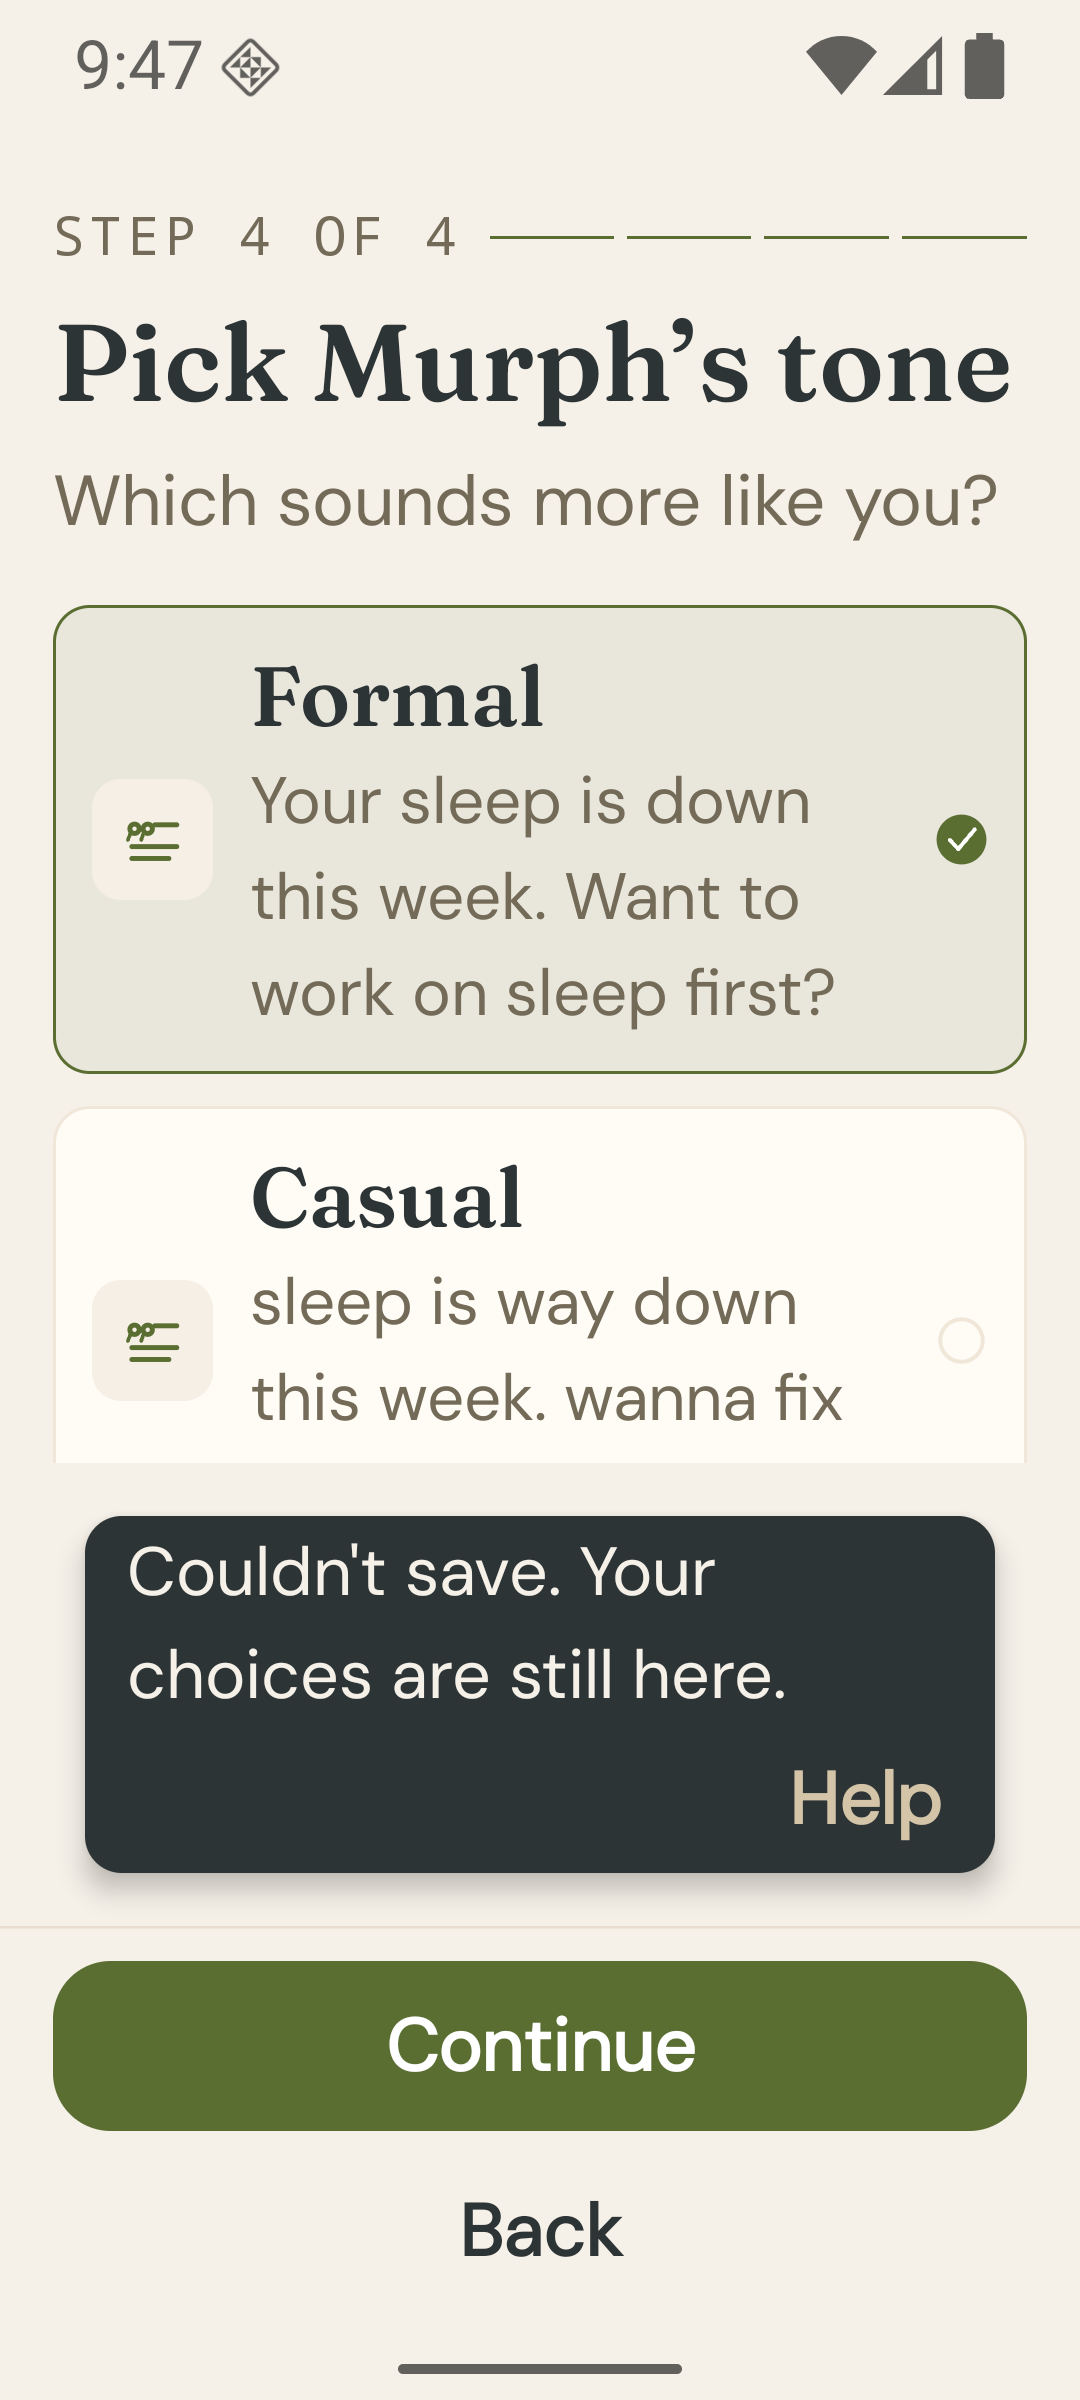
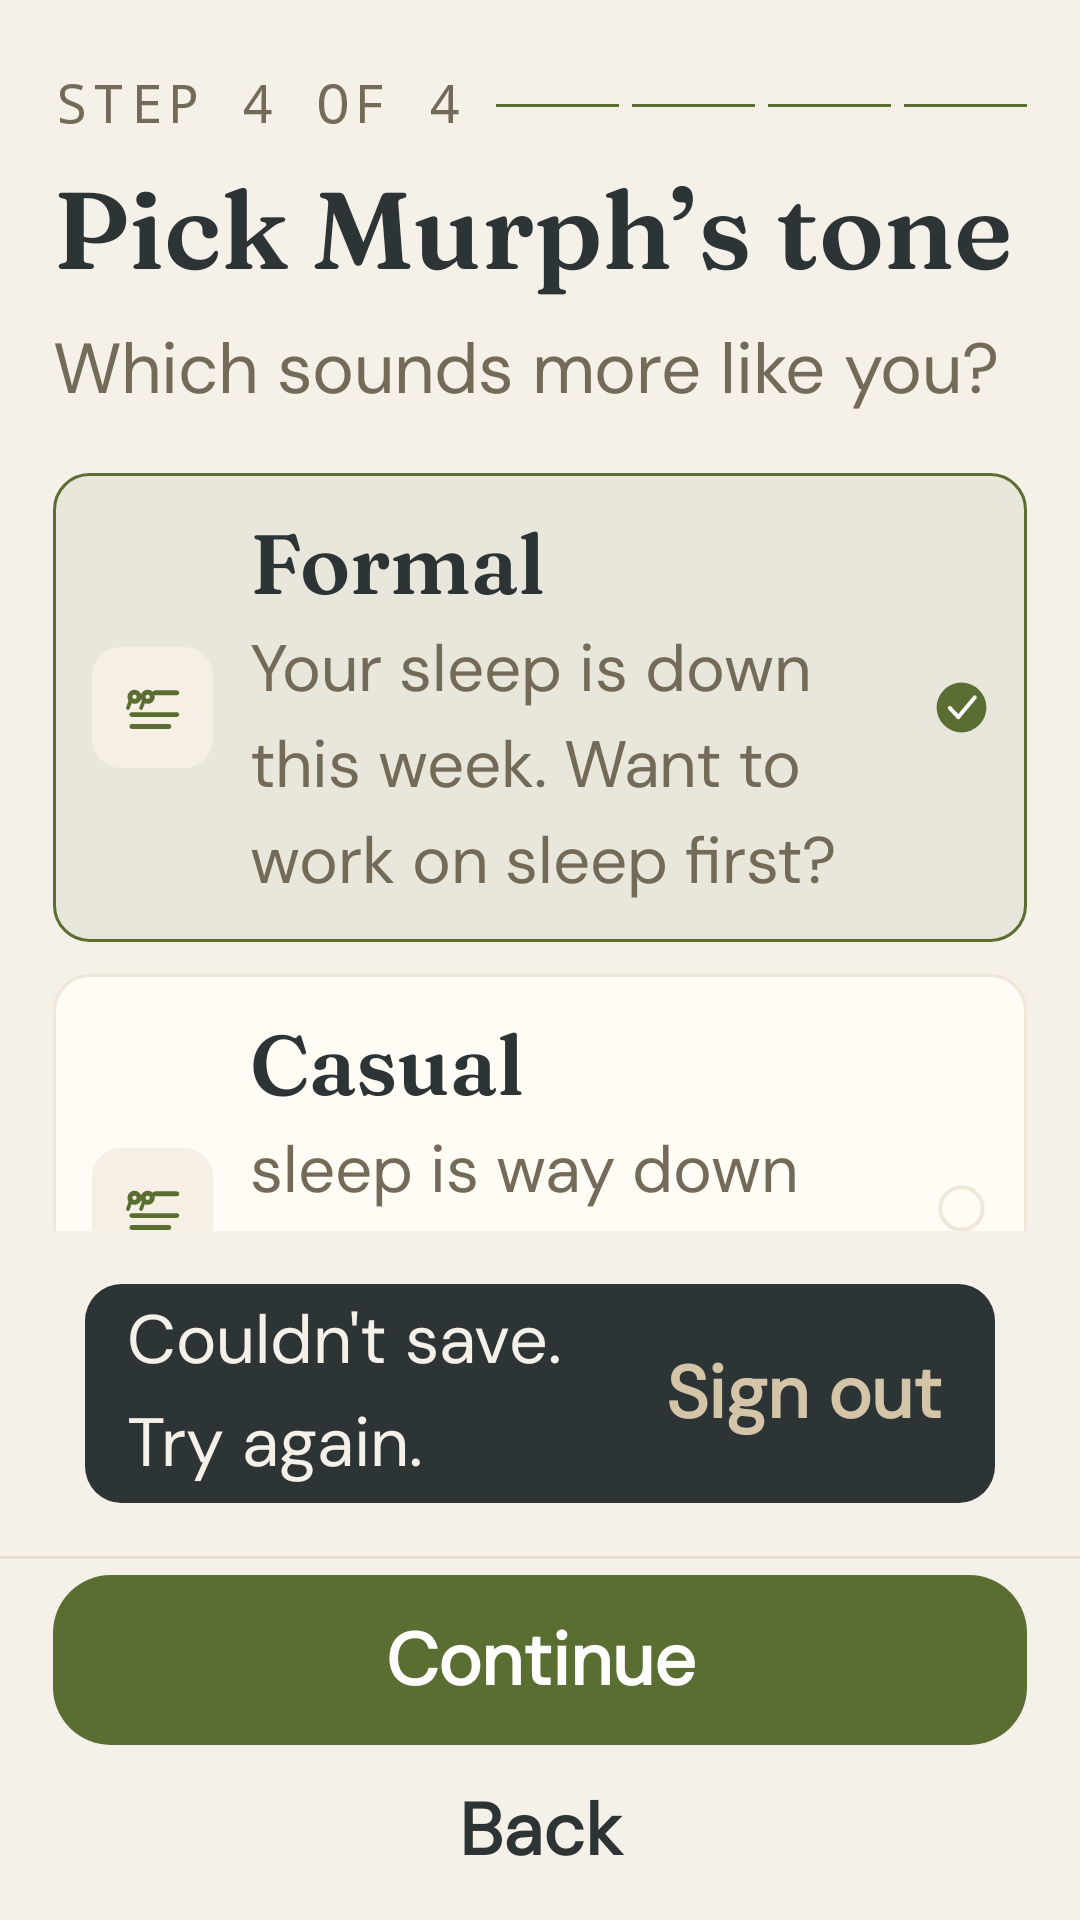
Keep onboarding recovery compact

diff --git a/app/src/main/java/ai/withmurph/companion/ui/onboarding/InitialOnboardingScreen.kt b/app/src/main/java/ai/withmurph/companion/ui/onboarding/InitialOnboardingScreen.kt
@@ -186,7 +186,6 @@ fun InitialOnboardingScreen(
     val stageScrollState = key(stage) { rememberScrollState() }
     val stageHeadingFocus = remember(stage) { FocusRequester() }
     val snackbarHostState = remember { SnackbarHostState() }
-    val stackSnackbarAction = LocalDensity.current.fontScale >= 1.3f
     LaunchedEffect(stage) {
         stageHeadingFocus.requestFocus()
         stageScrollState.scrollTo(0)
@@ -196,11 +195,11 @@ fun InitialOnboardingScreen(
         state.initialOnboardingMessage?.let { message ->
             val result = snackbarHostState.showSnackbar(
                 message = message,
-                actionLabel = "Help",
-                duration = SnackbarDuration.Long,
+                actionLabel = "Sign out",
+                duration = SnackbarDuration.Indefinite,
             )
             if (result == SnackbarResult.ActionPerformed) {
-                actions.onOpenSupport()
+                actions.onSignOut()
             }
         }
     }
@@ -277,7 +276,6 @@ fun InitialOnboardingScreen(
             Snackbar(
                 snackbarData = snackbarData,
                 modifier = Modifier.padding(horizontal = 20.dp, vertical = 8.dp),
-                actionOnNewLine = stackSnackbarAction,
                 shape = RoundedCornerShape(14.dp),
                 containerColor = MurphColors.Slate,
                 contentColor = MurphColors.Cream,
@@ -297,7 +295,7 @@ fun InitialOnboardingScreen(
                 modifier = Modifier
                     .widthIn(max = 680.dp)
                     .fillMaxWidth()
-                    .padding(horizontal = 20.dp, vertical = 12.dp),
+                    .padding(horizontal = 20.dp, vertical = 6.dp),
                 horizontalAlignment = Alignment.CenterHorizontally,
                 verticalArrangement = Arrangement.spacedBy(10.dp),
             ) {
@@ -917,7 +915,7 @@ private fun OnboardingFooter(
     }
     Column(
         modifier = Modifier.fillMaxWidth(),
-        verticalArrangement = Arrangement.spacedBy(10.dp),
+        verticalArrangement = Arrangement.spacedBy(4.dp),
         horizontalAlignment = Alignment.CenterHorizontally,
     ) {
         MurphPrimaryButton(

diff --git a/app/src/androidTest/java/ai/withmurph/companion/visual/ScreenshotScenarioSmokeTest.kt b/app/src/androidTest/java/ai/withmurph/companion/visual/ScreenshotScenarioSmokeTest.kt
@@ -46,8 +46,8 @@ class ScreenshotScenarioSmokeTest {
 
     @Test
     fun onboardingErrorFixtureKeepsRecoveryOutOfTheForm() = withScenario("onboardingError") {
-        onNodeWithText("Couldn't save. Your choices are still here.").assertIsDisplayed()
-        onNodeWithText("Help").assertIsDisplayed().assertHasClickAction()
+        onNodeWithText("Couldn't save. Try again.").assertIsDisplayed()
+        onNodeWithText("Sign out").assertIsDisplayed().assertHasClickAction()
         onNodeWithText("Formal").assertIsDisplayed().assertHasClickAction()
         onNodeWithText("Continue").assertIsDisplayed().assertHasClickAction()
         onNodeWithText("Back").assertIsDisplayed().assertHasClickAction()
@@ -62,7 +62,7 @@ class ScreenshotScenarioSmokeTest {
         withScenario("onboardingContactError") {
             onNodeWithText("We couldn't open the contact card. Check your connection and try again.")
                 .assertIsDisplayed()
-            onNodeWithText("Help").assertIsDisplayed().assertHasClickAction()
+            onNodeWithText("Sign out").assertIsDisplayed().assertHasClickAction()
             onNodeWithText("Add Murph to Contacts").assertIsDisplayed().assertHasClickAction()
             onNodeWithText("Skip").assertIsDisplayed().assertHasClickAction()
             onAllNodesWithText("Contact support").assertCountEquals(0)
@@ -75,6 +75,15 @@ class ScreenshotScenarioSmokeTest {
     fun onboardingConsentRecoveryDoesNotExposeSettings() =
         withScenario("onboardingConsentBanner") {
             onNodeWithText("Consent needed").assertIsDisplayed().assertHasClickAction()
+            onAllNodesWithText("Settings").assertCountEquals(0)
+        }
+
+    @Test
+    fun onboardingConsentLoadFailureOffersRetryOrSignOutWithoutSettings() =
+        withScenario("onboardingConsentLoadFailure") {
+            onNodeWithText("Try again").assertIsDisplayed().assertHasClickAction()
+            onNodeWithText("Sign out").assertIsDisplayed().assertHasClickAction()
+            onAllNodesWithText("Not now").assertCountEquals(0)
             onAllNodesWithText("Settings").assertCountEquals(0)
         }
 

diff --git a/app/src/debug/java/ai/withmurph/companion/visual/ScreenshotActivity.kt b/app/src/debug/java/ai/withmurph/companion/visual/ScreenshotActivity.kt
@@ -166,6 +166,7 @@ internal enum class ScreenshotScenario {
     OnboardingSaving,
     OnboardingWelcome,
     OnboardingConsentBanner,
+    OnboardingConsentLoadFailure,
     OnboardingReconnectRequired,
     FriendlyNames,
     FriendlyNamesReconnectRequired,
@@ -246,7 +247,7 @@ internal enum class ScreenshotScenario {
         )
         OnboardingError -> onboardingState(InitialOnboardingStage.Tone).copy(
             initialOnboardingMessage =
-                "Couldn't save. Your choices are still here.",
+                "Couldn't save. Try again.",
         )
         OnboardingSaving -> onboardingState(InitialOnboardingStage.Tone).copy(
             isInitialOnboardingSaving = true,
@@ -259,6 +260,14 @@ internal enum class ScreenshotScenario {
                 phase = LaunchConsentRecoveryPhase.Required,
                 status = consentStatus(),
                 showSheet = false,
+            ),
+        )
+        OnboardingConsentLoadFailure -> onboardingState(InitialOnboardingStage.MainPersona).copy(
+            launchConsentRecovery = LaunchConsentRecoveryUiState(
+                phase = LaunchConsentRecoveryPhase.LoadFailed,
+                message =
+                    "Murph couldn't load the latest consent documents. Check your connection and try again.",
+                showSheet = true,
             ),
         )
         OnboardingReconnectRequired -> onboardingState(InitialOnboardingStage.MainPersona).copy(
@@ -348,6 +357,7 @@ internal enum class ScreenshotScenario {
         OnboardingSaving,
         OnboardingWelcome,
         OnboardingConsentBanner,
+        OnboardingConsentLoadFailure,
         OnboardingReconnectRequired,
         FriendlyNames,
     FriendlyNamesReconnectRequired,
@@ -371,6 +381,7 @@ internal enum class ScreenshotScenario {
         OnboardingSaving,
         OnboardingWelcome,
         OnboardingConsentBanner,
+        OnboardingConsentLoadFailure,
         OnboardingReconnectRequired -> true
         else -> false
     }

diff --git a/app/src/testDebug/java/ai/withmurph/companion/visual/ScreenshotFixtureTest.kt b/app/src/testDebug/java/ai/withmurph/companion/visual/ScreenshotFixtureTest.kt
@@ -85,6 +85,8 @@ class ScreenshotFixtureTest {
         val error = ScreenshotScenario.from("onboardingError").appState(now)
         val contactError = ScreenshotScenario.from("onboardingContactError").appState(now)
         val saving = ScreenshotScenario.from("onboardingSaving").appState(now)
+        val consentLoadFailure =
+            ScreenshotScenario.from("onboardingConsentLoadFailure").appState(now)
 
         assertEquals(AppPhase.Launching, loading.phase)
         assertNull(loading.initialOnboarding)
@@ -96,7 +98,7 @@ class ScreenshotFixtureTest {
         assertFalse(error.isInitialOnboardingSaving)
         assertTrue(ScreenshotScenario.OnboardingError.isInitialOnboarding())
         assertEquals(
-            "Couldn't save. Your choices are still here.",
+            "Couldn't save. Try again.",
             error.initialOnboardingMessage,
         )
 
@@ -112,6 +114,14 @@ class ScreenshotFixtureTest {
         assertTrue(saving.isInitialOnboardingSaving)
         assertTrue(ScreenshotScenario.OnboardingSaving.isInitialOnboarding())
         assertNull(saving.initialOnboardingMessage)
+
+        assertNotNull(consentLoadFailure.initialOnboarding)
+        assertEquals(
+            LaunchConsentRecoveryPhase.LoadFailed,
+            consentLoadFailure.launchConsentRecovery?.phase,
+        )
+        assertTrue(requireNotNull(consentLoadFailure.launchConsentRecovery).showSheet)
+        assertTrue(ScreenshotScenario.OnboardingConsentLoadFailure.isInitialOnboarding())
     }
 
     @Test

diff --git a/app/src/test/java/ai/withmurph/companion/app/AppSessionTest.kt b/app/src/test/java/ai/withmurph/companion/app/AppSessionTest.kt
@@ -1226,9 +1226,29 @@ class AppSessionTest {
         fixture.session.saveInitialOnboarding()
 
         assertEquals("coach", fixture.session.state.value.initialOnboardingDraft?.mainPersonaId)
-        assertTrue(
-            fixture.session.state.value.initialOnboardingMessage.orEmpty()
-                .contains("choices"),
+        assertEquals(
+            "Couldn't save. Try again.",
+            fixture.session.state.value.initialOnboardingMessage,
+        )
+        assertFalse(fixture.session.state.value.isInitialOnboardingSaving)
+    }
+
+    @Test
+    fun failedInitialOnboardingSkipRetainsDraftAndPublishesRetryMessage() = runTest {
+        val fixture = fixture()
+        fixture.api.initialOnboarding = pendingInitialOnboarding()
+        fixture.session.start()
+        fixture.session.selectInitialOnboardingMainPersona("coach")
+        fixture.api.initialOnboardingCompletionError = CompanionApiException.Network
+
+        fixture.session.skipInitialOnboarding()
+
+        val request = fixture.api.initialOnboardingCompletions.single().second
+        assertEquals(InitialOnboardingCompletionAction.Skip, request.action)
+        assertEquals("coach", fixture.session.state.value.initialOnboardingDraft?.mainPersonaId)
+        assertEquals(
+            "Couldn't save. Try again.",
+            fixture.session.state.value.initialOnboardingMessage,
         )
         assertFalse(fixture.session.state.value.isInitialOnboardingSaving)
     }

diff --git a/app/src/main/java/ai/withmurph/companion/ui/MurphApp.kt b/app/src/main/java/ai/withmurph/companion/ui/MurphApp.kt
@@ -431,6 +431,7 @@ private fun ReadyApp(
                 onAccept = actions.onAcceptLaunchConsent,
                 onRetry = actions.onRetryLaunchConsent,
                 onDismiss = actions.onDismissLaunchConsent,
+                onSignOut = if (state.initialOnboarding != null) actions.onSignOut else null,
                 onOpenDocument = actions.onOpenConsentDocument,
             )
         }
@@ -687,6 +688,7 @@ private fun LaunchConsentRecoveryContent(
     onAccept: () -> Unit,
     onRetry: () -> Unit,
     onDismiss: () -> Unit,
+    onSignOut: (() -> Unit)?,
     onOpenDocument: (String) -> Unit,
 ) {
     val status = recovery.status
@@ -801,8 +803,8 @@ private fun LaunchConsentRecoveryContent(
                     LaunchConsentRecoveryPhase.LoadFailed -> {
                         MurphPrimaryButton("Try again", onRetry)
                         MurphLinkButton(
-                            text = "Not now",
-                            onClick = onDismiss,
+                            text = if (onSignOut == null) "Not now" else "Sign out",
+                            onClick = onSignOut ?: onDismiss,
                             modifier = Modifier.align(Alignment.CenterHorizontally),
                         )
                     }

diff --git a/app/src/main/java/ai/withmurph/companion/app/AppSession.kt b/app/src/main/java/ai/withmurph/companion/app/AppSession.kt
@@ -466,7 +466,7 @@ class AppSession(
                     authoritativeLocalAuth = error.observedState
                 } else {
                     publishInitialOnboardingFailure(
-                        "Couldn't save. Your choices are still here.",
+                        "Couldn't save. Try again.",
                     )
                 }
             } catch (_: CompanionApiException.ConsentRequired) {
@@ -494,13 +494,13 @@ class AppSession(
                     publishTerminalMemberBoundaryFailure(error)
                 } else {
                     publishInitialOnboardingFailure(
-                        "Couldn't save. Your choices are still here.",
+                        "Couldn't save. Try again.",
                     )
                 }
             } catch (_: Exception) {
                 if (ownsInitialOnboardingRequest(memberKey, epoch, generation)) {
                     publishInitialOnboardingFailure(
-                        "Couldn't save. Your choices are still here.",
+                        "Couldn't save. Try again.",
                     )
                 }
             } finally {
